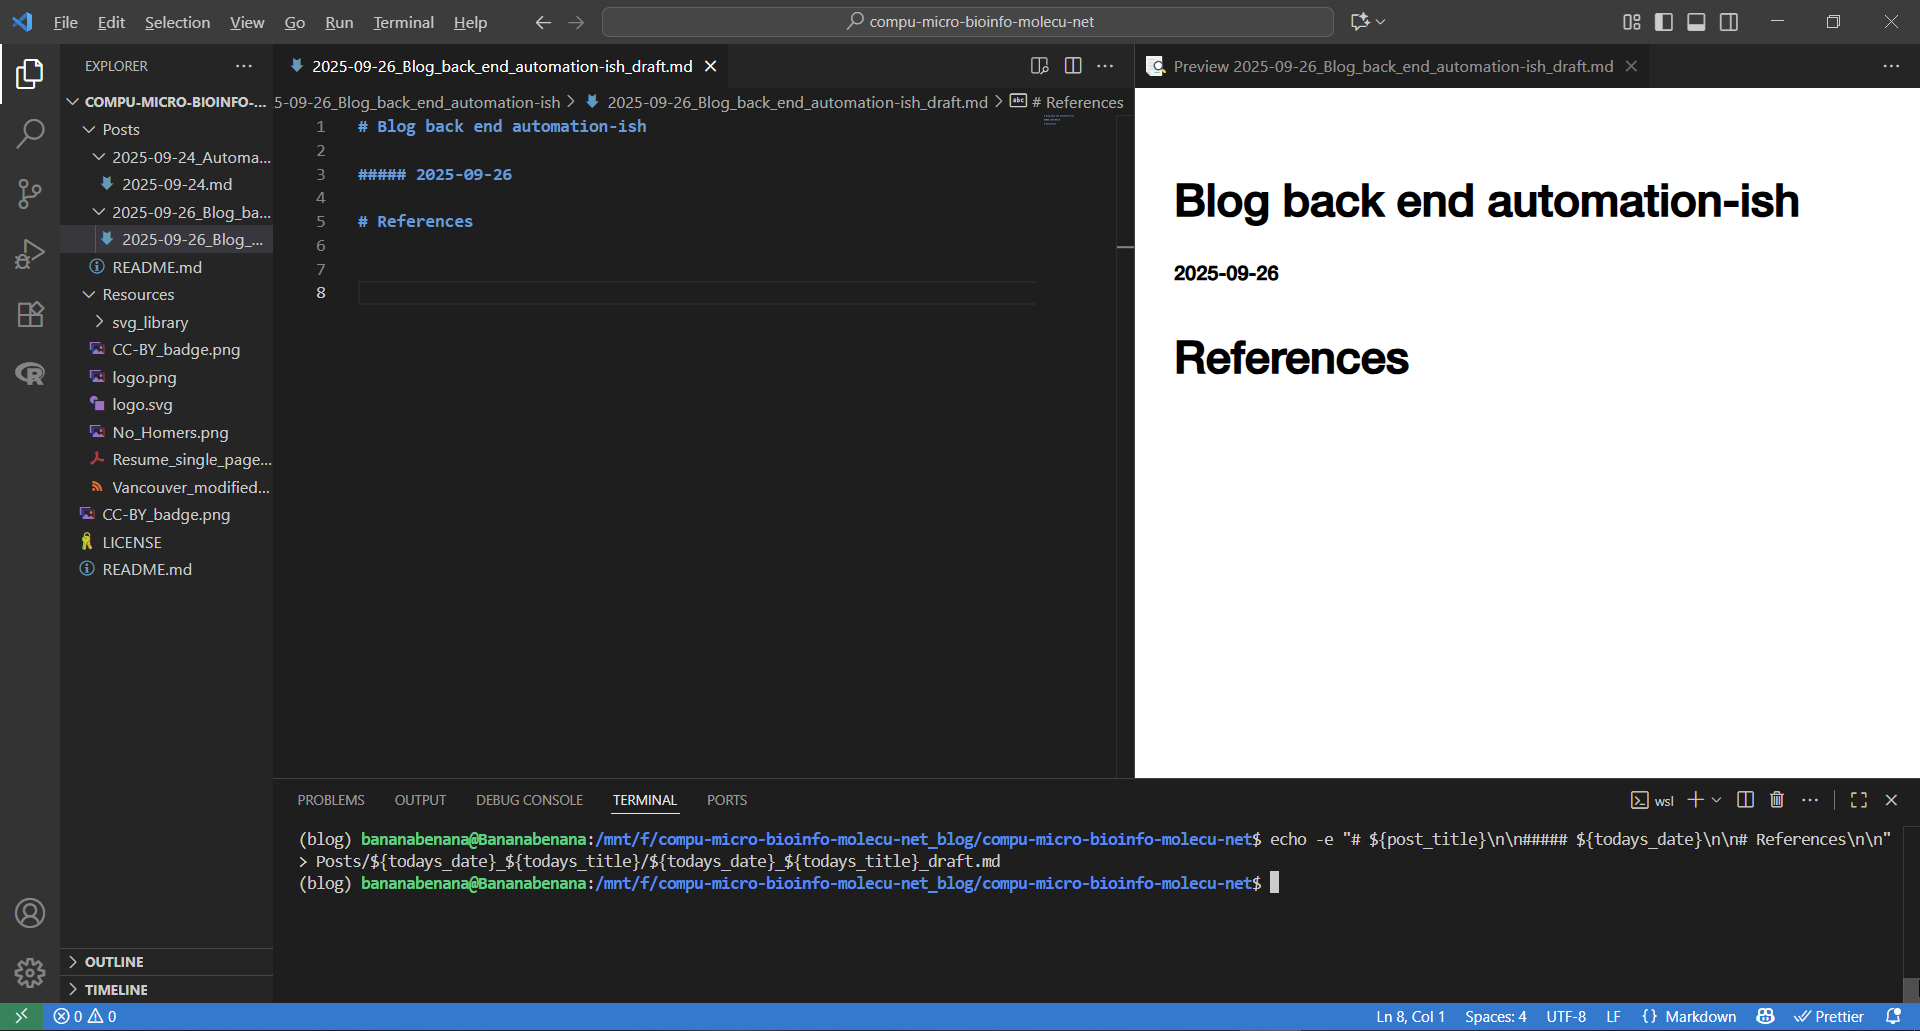
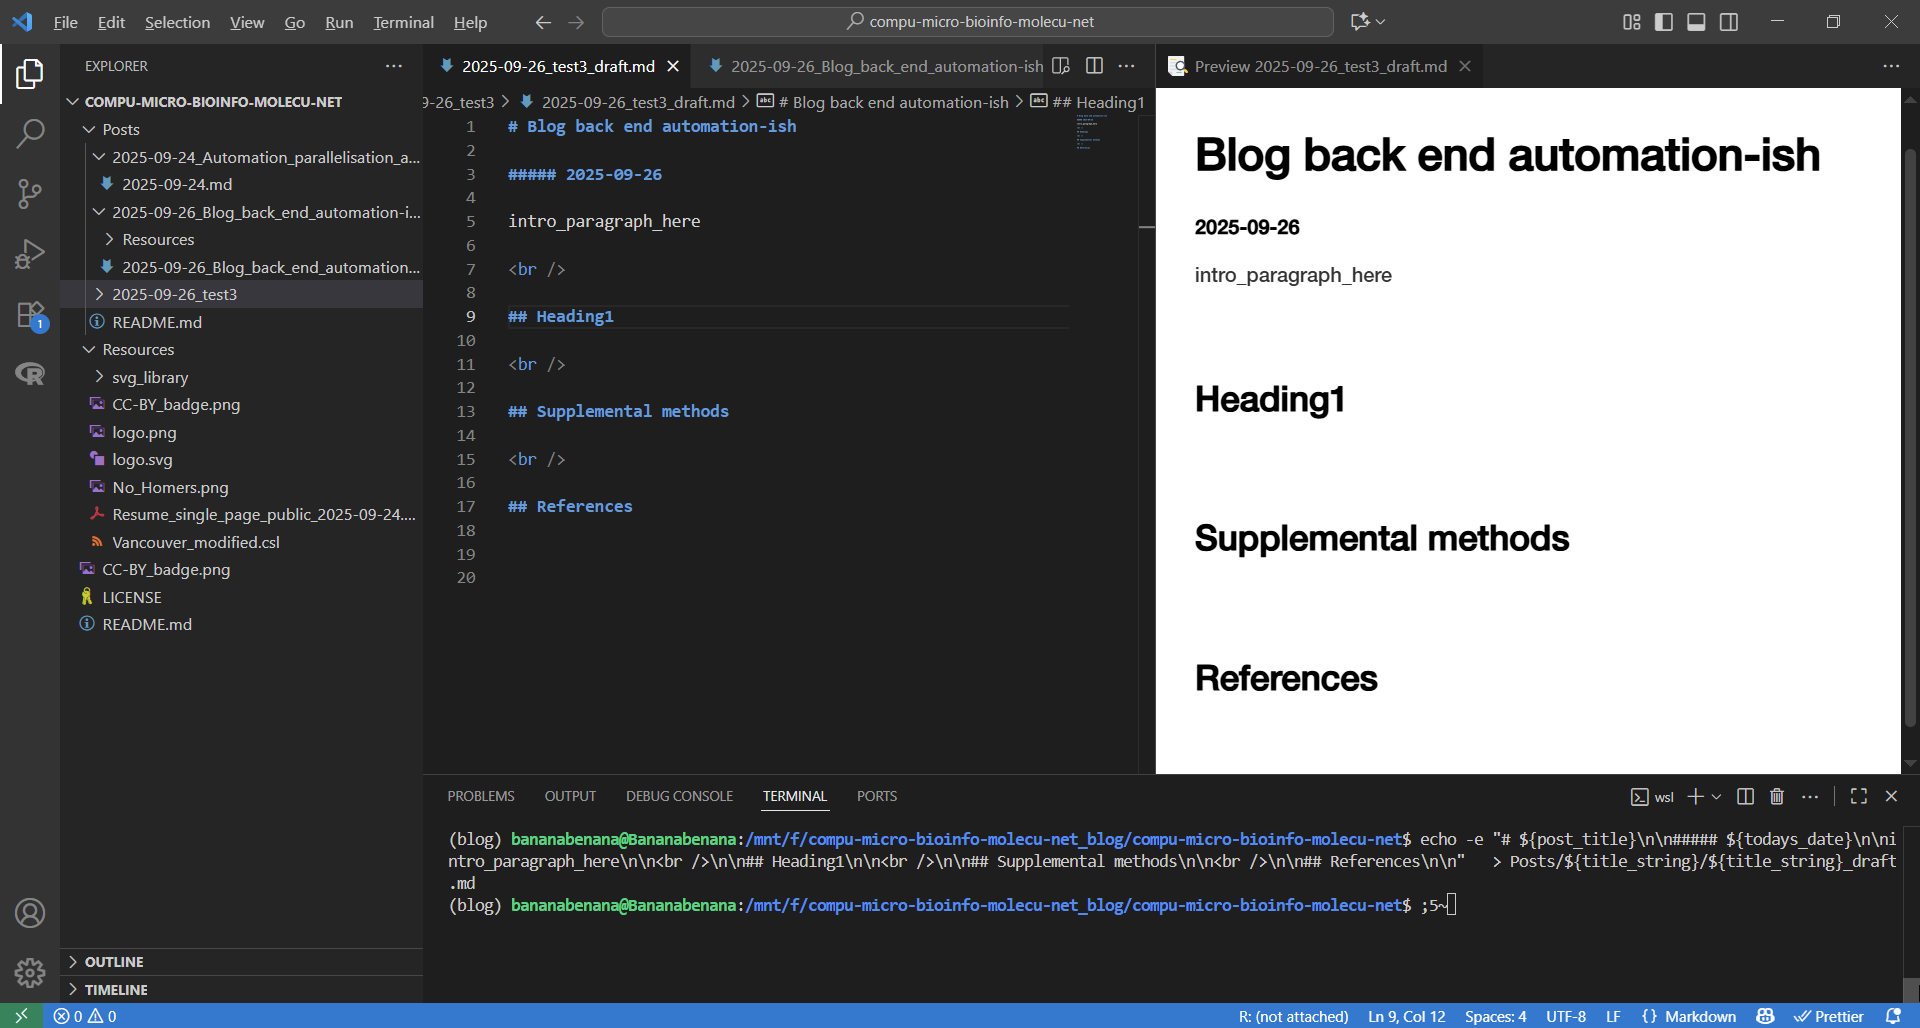
Post: 2025-09-26_test3

diff --git a/README.md b/README.md
@@ -8,15 +8,18 @@
 
 **Check out the posts [here](https://github.com/bananabenana/compu-micro-bioinfo-molecu-net/tree/main/Posts)**
 
-
-
-<figure style="text-align:left;">
+<figure>
   <a href="https://github.com/bananabenana/compu-micro-bioinfo-molecu-net/tree/main/Posts">
-    <img src="Resources/logo.png" alt="compu-micro-bioinfo-molecu-net logo" style="height:400px; width:auto;">
-  </a>
-    <figcaption><em>The extremly high-value and sought-after logo for compu-micro-bioinfo-molecu-net</em></figcaption>
+    <img src="Resources/logo.png"
+       alt="compu-micro-bioinfo-molecu-net logo"
+       style="height:400px; width:auto;">
+    </a>
+  <figcaption>
+    <em>The extremly high-value and sought-after logo for compu-micro-bioinfo-molecu-net.</em>
+  </figcaption>
 </figure>
 
+<br />
 
 ## About me
 I am a research scientist in microbiology and infectious diseases. I am an expert in molecular biology, microbiology and comptuational biology/bioinformatics. I love doing science as a day job, in particular analysing and visualising data while learning as many techniques and strats as possible. I've spent a lot of time looking at bacterial pathogens and how they transmit, along with their evolution, metabolism and resistance. My main focus is developing strategies to prevent and limit the spread of antimicrobial resistance through vaccine design, novel antimicrobial discovery, gene technologies and genomic surveillance.
@@ -53,25 +56,32 @@ If for some reason you feel the urge to respond to one of these posts, just leav
 # Inspo and motivation
 Starting this blog was motivated by a yearning for >300 character-self-expression in a semi-professional context, while providing a potentially useful resource for other scientists or dabbling computational biologists. I was inspired by the informative and enjoyable blogs of several peers. The blog title is inspired by the Marge Simpson-suggested [Compu-Global-Hyper-Mega-Net](https://simpsonswiki.com/wiki/Compu-Global-Hyper-Mega-Net), because *what am I gonna call my [blog]? All the good names are taken.*
 
-<div style="text-align:center;">
-  <figure style="display:inline-block; text-align:left;">
-    <img src="Resources/No_Homers.png" alt="Homer Simpson answering the phone with 'Compu-Global-Hyper-Mega-Net' " style="height:300px; width:auto;">
-    <figcaption><em>Credit: The Simpsons (and whoever owns them now)</em></figcaption>
-  </figure>
-</div>
+<figure>
+  <img src="Resources/No_Homers.png"
+    alt="cHomer Simpson answering the phone with'Compu-Global-Hyper-Mega-Net'"
+    style="height:300px; width:auto;">
+  <figcaption>
+    <em>Credit: The Simpsons (and whoever owns them now).</em>
+  </figcaption>
+</figure>
 
+<br />
 
 # Licensing info
 Aside from the blog title, the content of this blog including all images, figures and text are licensed under CC BY, so feel free to use, manipulate, just chuck me a reference. Third-party images remain the property of their copyright holders and will be attributed when used.
 
-<div style="text-align:center;">
-  <figure style="display:inline-block; text-align:left;">
-    <a href="https://creativecommons.org/licenses/by/4.0/">
-    <img src="Resources/CC-BY_badge.png" alt="CC BY badge" style="height:50px; width:auto;">
+<figure>
+  <a href="https://creativecommons.org/licenses/by/4.0/">
+    <img src="Resources/CC-BY_badge.png"
+       alt="compu-micro-bioinfo-molecu-net logo"
+       style="height:50px; width:auto;">
     </a>
-  </figure>
-</div>
+  <figcaption>
+    <em></em>
+  </figcaption>
+</figure>
 
+<br />
 
 # Meme-tier disclaimer
 This blog is not affiliated with any of my current or past employers, nor does it represent their views etc. I'm not even sure it represents my views. Let's find out together.

diff --git a/Posts/2025-09-26_Blog_back_end_automation-ish/2025-09-26_Blog_back_end_automation-ish.md b/Posts/2025-09-26_Blog_back_end_automation-ish/2025-09-26_Blog_back_end_automation-ish.md
@@ -44,15 +44,15 @@ mkdir -p Posts/${title_string}
 post_title=$(echo "${todays_title}" | sed 's/_/ /g')
 
 # Create markdown file as a draft with headings and date
-echo -e "# ${post_title}\n\n##### ${todays_date}\n\n## References\n\n" \
+echo -e "# ${post_title}\n\n##### ${todays_date}\n\nintro_paragraph_here\n\n<br />\n\n## Heading1\n\n<br />\n\n## Supplemental methods\n\n<br />\n\n## References\n\n" \
   > Posts/${title_string}/${title_string}_draft.md
-```
+  ```
 
 <br />
 
 **2.** Then I have to actually write the post.
 
-- I write in [VSCode](https://code.%20visualstudio.com/) v1.104.1 (1), with the incredibly helpful [Markdown Preview Enhanced](https://github.com/shd101wyy/vscode-markdown-preview-enhanced) v0.8.19 (2). to see the mature markdown in real-time
+- I write in [VSCode](https://code.%20visualstudio.com/) v1.104.1 (1), with the incredibly helpful [Markdown Preview Enhanced](https://github.com/shd101wyy/vscode-markdown-preview-enhanced) v0.8.19 (2) to see the mature markdown in real-time
 - Citations are managed with [Zotero](https://www.zotero.org/) v7.0.15 (3) with the [Better Bibtex for Zotero](https://github.com/retorquere/zotero-better-bibtex/releases/tag/v7.0.50) v7.0.50 plugin (4). The VSCode plugin [VSCode Zotero](https://marketplace.visualstudio.com/items?itemName=jinvim.vscode-zotero) v1.1.1 (5) is used to handle in-text citations and generation of the `references.bib`.
 
 <figure>
@@ -67,7 +67,7 @@ echo -e "# ${post_title}\n\n##### ${todays_date}\n\n## References\n\n" \
 
 <br />
 
-**3.** After painstakinly crafting a blog of the highest calibre - just perfect, [perfect in every way](https://youtu.be/nyoxtceA4Rg?si=HVRiwXofCxA5RRnF&t=188) - so perfect that it could reverse itself out from beyond a cosmic event horizon, I run pandoc v3.8 (6) using a modified [Vancouver.csl](../../Resources/Vancouver_modified.csl) file to neatly generate the bibliography in markdown format:
+**3.** After painstakingly crafting a blog of the highest calibre - just perfect, [perfect in every way](https://youtu.be/nyoxtceA4Rg?si=HVRiwXofCxA5RRnF&t=188) - so perfect that it could reverse itself out from beyond a cosmic event horizon, I run pandoc v3.8 (6) using a modified [Vancouver.csl](../../Resources/Vancouver_modified.csl) file to neatly generate the bibliography in markdown format:
 
 ``` bash
 # Installed pandoc

diff --git a/Posts/README.md b/Posts/README.md
@@ -2,12 +2,15 @@
 Sub-directories contain blog posts and associated resources.
 
 When I write them, check out my favourite posts:
-- XXX
+- [Blog back end automation-ish](../Posts/2025-09-26_Blog_back_end_automation-ish/2025-09-26_Blog_back_end_automation-ish.md)
 - YYY
 - ZZZ
 
-<div style="text-align:center;">
-  <figure style="display:inline-block; text-align:left;">
-    <img src="../Resources/logo.png" alt="compu-micro-bioinfo-molecu-net logo" style="height:400px; width:auto;">
-  </figure>
-</div>
+<figure>
+  <img src="../Resources/logo.png"
+    alt="compu-micro-bioinfo-molecu-net logo"
+    style="height:400px; width:auto;">
+  <figcaption>
+    <em></em>
+  </figcaption>
+</figure>
